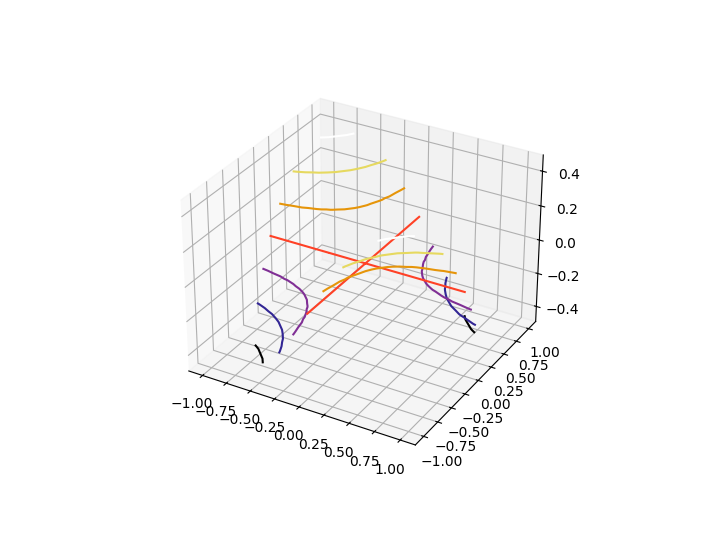
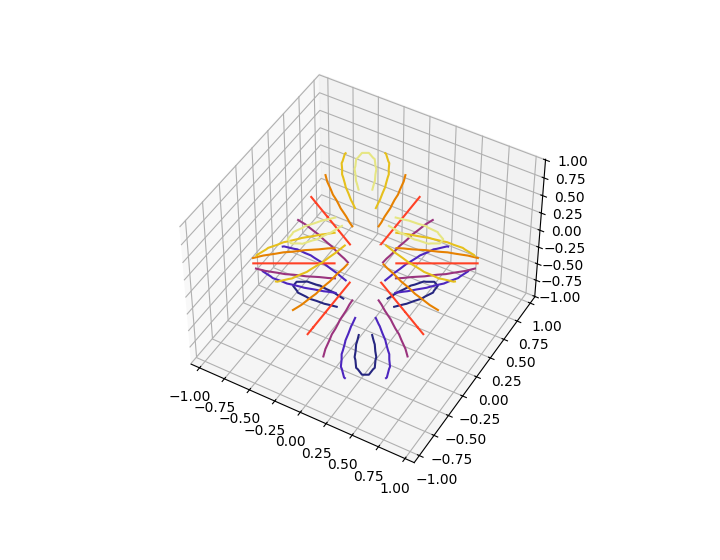
feat: Implement Delaunay triangulation and update contour line width to match Matplotlib defaults

Changed region(s): [[0.2444, 0.1214, 0.825, 0.8804]]

diff --git a/test/parity/mplot3d_tricontour3d/plot.go b/test/parity/mplot3d_tricontour3d/plot.go
@@ -16,37 +16,47 @@ const (
 	DPI    = 100
 )
 
-// fanMesh builds the same polar fan point cloud used by mplot3d_trisurf3d so the
-// auto-Delaunay triangulation matches matplotlib's for an unstructured grid.
-func fanMesh() (x, y, z []float64) {
+// tricontourMesh mirrors Matplotlib's mplot3d/tricontour3d.py gallery example.
+func tricontourMesh() (core.Triangulation, []float64) {
 	const (
-		nRadii  = 8
-		nAngles = 36
+		nAngles   = 48
+		nRadii    = 8
+		minRadius = 0.25
 	)
 	radii := make([]float64, nRadii)
 	for i := range radii {
-		radii[i] = 0.125 + (float64(i)/float64(nRadii-1))*(1.0-0.125)
-	}
-	angles := make([]float64, nAngles)
-	for i := range angles {
-		angles[i] = 2 * math.Pi * float64(i) / float64(nAngles)
+		radii[i] = minRadius + (float64(i)/float64(nRadii-1))*(0.95-minRadius)
 	}
 
-	x = make([]float64, 1+nRadii*nAngles)
-	y = make([]float64, len(x))
-	z = make([]float64, len(x))
-	index := 1
-	for _, angle := range angles {
-		for _, radius := range radii {
+	x := make([]float64, nAngles*nRadii)
+	y := make([]float64, len(x))
+	z := make([]float64, len(x))
+	index := 0
+	for angleIdx := range nAngles {
+		baseAngle := 2 * math.Pi * float64(angleIdx) / float64(nAngles)
+		for radiusIdx, radius := range radii {
+			angle := baseAngle
+			if radiusIdx%2 == 1 {
+				angle += math.Pi / nAngles
+			}
 			x[index] = radius * math.Cos(angle)
 			y[index] = radius * math.Sin(angle)
+			z[index] = math.Cos(radius) * math.Cos(3*angle)
 			index++
 		}
 	}
-	for i := range x {
-		z[i] = math.Sin(-(x[i] * y[i]))
+
+	tri, err := core.NewTriangulation(x, y)
+	if err != nil {
+		panic(err)
 	}
-	return x, y, z
+	tri.Mask = make([]bool, len(tri.Triangles))
+	for i, triangle := range tri.Triangles {
+		cx := (tri.X[triangle[0]] + tri.X[triangle[1]] + tri.X[triangle[2]]) / 3
+		cy := (tri.Y[triangle[0]] + tri.Y[triangle[1]] + tri.Y[triangle[2]]) / 3
+		tri.Mask[i] = math.Hypot(cx, cy) < minRadius
+	}
+	return tri, z
 }
 
 // Plot builds the showcase figure (backend-agnostic).
@@ -60,16 +70,12 @@ func Plot() *core.Figure {
 		panic(err)
 	}
 
-	x, y, z := fanMesh()
+	tri, z := tricontourMesh()
 	cmap := "CMRmap"
-	vmin := -0.45
-	vmax := 0.45
-	ax.TriContour(core.Triangulation{X: x, Y: y}, z, core.PlotOptions{
+	ax.TriContour(tri, z, core.PlotOptions{
 		Colormap: &cmap,
-		Levels:   []float64{-0.45, -0.3, -0.15, 0, 0.15, 0.3, 0.45},
-		VMin:     &vmin,
-		VMax:     &vmax,
 	})
+	ax.SetView(45, -60)
 	return fig
 }
 

diff --git a/test/matplotlib_ref/plots/mplot3d_tricontour3d.py b/test/matplotlib_ref/plots/mplot3d_tricontour3d.py
@@ -20,26 +20,27 @@ def mplot3d_tricontour3d(out_dir):
     fig = make_fig_px(720, 560)
     ax = fig.add_axes(go_rect(0.12, 0.16, 0.88, 0.88), projection="3d")
 
-    # Same polar fan point cloud as mplot3d_trisurf3d; rely on auto-Delaunay so
-    # the triangulation matches the Go core.Triangulation auto-mesh.
+    n_angles = 48
     n_radii = 8
-    n_angles = 36
-    radii = np.linspace(0.125, 1.0, n_radii)
-    angles = np.linspace(0, 2 * math.pi, n_angles, endpoint=False)[:, np.newaxis]
+    min_radius = 0.25
 
-    x = np.append(0, (radii * np.cos(angles)).flatten())
-    y = np.append(0, (radii * np.sin(angles)).flatten())
-    z = np.sin(-(x * y))
+    radii = np.linspace(min_radius, 0.95, n_radii)
+    angles = np.linspace(0, 2 * math.pi, n_angles, endpoint=False)
+    angles = np.repeat(angles[..., np.newaxis], n_radii, axis=1)
+    angles[:, 1::2] += math.pi / n_angles
 
-    ax.tricontour(
-        x,
-        y,
-        z,
-        levels=[-0.45, -0.3, -0.15, 0, 0.15, 0.3, 0.45],
-        cmap="CMRmap",
-        vmin=-0.45,
-        vmax=0.45,
+    x = (radii * np.cos(angles)).flatten()
+    y = (radii * np.sin(angles)).flatten()
+    z = (np.cos(radii) * np.cos(3 * angles)).flatten()
+
+    triang = mtri.Triangulation(x, y)
+    triang.set_mask(
+        np.hypot(x[triang.triangles].mean(axis=1), y[triang.triangles].mean(axis=1))
+        < min_radius
     )
+
+    ax.tricontour(triang, z, cmap="CMRmap")
+    ax.view_init(elev=45.0)
 
     save(fig, out_dir, "mplot3d_tricontour3d")
 

diff --git a/test/parity/mplot3d_tricontour3d/plot.py b/test/parity/mplot3d_tricontour3d/plot.py
@@ -20,26 +20,27 @@ def mplot3d_tricontour3d(out_dir):
     fig = make_fig_px(720, 560)
     ax = fig.add_axes(go_rect(0.12, 0.16, 0.88, 0.88), projection="3d")
 
-    # Same polar fan point cloud as mplot3d_trisurf3d; rely on auto-Delaunay so
-    # the triangulation matches the Go core.Triangulation auto-mesh.
+    n_angles = 48
     n_radii = 8
-    n_angles = 36
-    radii = np.linspace(0.125, 1.0, n_radii)
-    angles = np.linspace(0, 2 * math.pi, n_angles, endpoint=False)[:, np.newaxis]
+    min_radius = 0.25
 
-    x = np.append(0, (radii * np.cos(angles)).flatten())
-    y = np.append(0, (radii * np.sin(angles)).flatten())
-    z = np.sin(-(x * y))
+    radii = np.linspace(min_radius, 0.95, n_radii)
+    angles = np.linspace(0, 2 * math.pi, n_angles, endpoint=False)
+    angles = np.repeat(angles[..., np.newaxis], n_radii, axis=1)
+    angles[:, 1::2] += math.pi / n_angles
 
-    ax.tricontour(
-        x,
-        y,
-        z,
-        levels=[-0.45, -0.3, -0.15, 0, 0.15, 0.3, 0.45],
-        cmap="CMRmap",
-        vmin=-0.45,
-        vmax=0.45,
+    x = (radii * np.cos(angles)).flatten()
+    y = (radii * np.sin(angles)).flatten()
+    z = (np.cos(radii) * np.cos(3 * angles)).flatten()
+
+    triang = mtri.Triangulation(x, y)
+    triang.set_mask(
+        np.hypot(x[triang.triangles].mean(axis=1), y[triang.triangles].mean(axis=1))
+        < min_radius
     )
+
+    ax.tricontour(triang, z, cmap="CMRmap")
+    ax.view_init(elev=45.0)
 
     save(fig, out_dir, "mplot3d_tricontour3d")
 

diff --git a/internal/examplecatalog/catalog.go b/internal/examplecatalog/catalog.go
@@ -201,7 +201,7 @@ var cases = []Case{
 	{ID: "mplot3d_quiver3d", Topic: "mplot3d", Title: "3D Quiver", FixtureOnly: true, Width: 720, Height: 560, MinPSNR: 30.0, MaxMeanAbs: 10.0, MaxRMSE: 3.7},
 	{ID: "mplot3d_contour3d", Topic: "mplot3d", Title: "3D Contour", FixtureOnly: true, Width: 720, Height: 560, MinPSNR: 30.0, MaxMeanAbs: 12.0, MaxRMSE: 3.5},
 	{ID: "mplot3d_contourf3d", Topic: "mplot3d", Title: "3D Filled Contour", FixtureOnly: true, Width: 720, Height: 560, MinPSNR: 30.0, MaxMeanAbs: 12.0, MaxRMSE: 1.2},
-	{ID: "mplot3d_tricontour3d", Topic: "mplot3d", Title: "3D Triangulated Contour", FixtureOnly: true, Width: 720, Height: 560, MinPSNR: 30.0, MaxMeanAbs: 12.0, MaxRMSE: 5.0},
+	{ID: "mplot3d_tricontour3d", Topic: "mplot3d", Title: "3D Triangulated Contour", FixtureOnly: true, Width: 720, Height: 560, MinPSNR: 30.0, MaxMeanAbs: 12.0, MaxRMSE: 2.8},
 	{ID: "mplot3d_tricontourf3d", Topic: "mplot3d", Title: "3D Triangulated Filled Contour", FixtureOnly: true, Width: 720, Height: 560, MinPSNR: 30.0, MaxMeanAbs: 12.0, MaxRMSE: 2.0},
 	{ID: "mplot3d_bar2d_zdir", Topic: "mplot3d", Title: "3D Planar 2D Bars", FixtureOnly: true, Width: 720, Height: 560, MinPSNR: 30.0, MaxMeanAbs: 8.0, MaxRMSE: 1.2},
 	{ID: "mplot3d_text3d", Topic: "mplot3d", Title: "3D Text Labels", FixtureOnly: true, Width: 720, Height: 560, MinPSNR: 30.0, MaxMeanAbs: 10.0, MaxRMSE: 2.0},

diff --git a/core/axes3d_contour_test.go b/core/axes3d_contour_test.go
@@ -54,6 +54,38 @@ func TestAxes3DTriContourAndTriContourfCreateCollections(t *testing.T) {
 	}
 }
 
+func TestAxes3DContourDefaultLineWidthMatchesMatplotlib(t *testing.T) {
+	fig := NewFigure(640, 480)
+	ax, err := fig.AddAxes3D(unitRect())
+	if err != nil {
+		t.Fatalf("AddAxes3D: %v", err)
+	}
+
+	x := []float64{0, 1}
+	y := []float64{0, 1}
+	z := [][]float64{{0, 1}, {1, 2}}
+	contour := ax.Contour(x, y, z, PlotOptions{Levels: []float64{0.5}})
+	if contour == nil {
+		t.Fatal("Contour returned nil")
+	}
+	if got, want := contour.LineWidth, 2.0; got != want {
+		t.Fatalf("Contour default line width = %v, want Matplotlib 1.5 pt at 100 DPI rounded to %v px", got, want)
+	}
+
+	tri := Triangulation{
+		X:         []float64{0, 1, 0},
+		Y:         []float64{0, 0, 1},
+		Triangles: [][3]int{{0, 1, 2}},
+	}
+	triContour := ax.TriContour(tri, []float64{0, 1, 1}, PlotOptions{Levels: []float64{0.5}})
+	if triContour == nil {
+		t.Fatal("TriContour returned nil")
+	}
+	if got, want := triContour.LineWidth, 2.0; got != want {
+		t.Fatalf("TriContour default line width = %v, want Matplotlib 1.5 pt at 100 DPI rounded to %v px", got, want)
+	}
+}
+
 func TestAxes3DContourfDefaultsToOpaqueFacesLikeMatplotlib(t *testing.T) {
 	fig := NewFigure(640, 480)
 	ax, err := fig.AddAxes3D(unitRect())

diff --git a/core/tricontour_test.go b/core/tricontour_test.go
@@ -32,6 +32,33 @@ func TestTriContourfSkipsMaskedTriangles(t *testing.T) {
 	}
 }
 
+func TestNewTriangulationBuildsDelaunayMesh(t *testing.T) {
+	tri, err := NewTriangulation(
+		[]float64{0, 1, 0, 1},
+		[]float64{0, 0, 1, 1},
+	)
+	if err != nil {
+		t.Fatalf("NewTriangulation: %v", err)
+	}
+	if len(tri.Triangles) != 2 {
+		t.Fatalf("triangles = %v, want two triangles covering the square", tri.Triangles)
+	}
+	if len(tri.X) != 4 || len(tri.Y) != 4 {
+		t.Fatalf("coordinate lengths = %d/%d, want copied input coordinates", len(tri.X), len(tri.Y))
+	}
+
+	tri.X[0] = 99
+	originalX := []float64{0, 1, 0, 1}
+	tri, err = NewTriangulation(originalX, []float64{0, 0, 1, 1})
+	if err != nil {
+		t.Fatalf("NewTriangulation after mutation: %v", err)
+	}
+	originalX[0] = 42
+	if tri.X[0] != 0 {
+		t.Fatalf("NewTriangulation retained caller slice: got x[0]=%v, want independent copy", tri.X[0])
+	}
+}
+
 func TestTriangulationArtists(t *testing.T) {
 	fig := NewFigure(640, 480)
 	ax := fig.AddAxes(geom.Rect{

diff --git a/core/triangulation.go b/core/triangulation.go
@@ -17,6 +17,18 @@ type Triangulation struct {
 	Mask      []bool
 }
 
+// NewTriangulation returns a Delaunay triangulation for the supplied points.
+func NewTriangulation(x, y []float64) (Triangulation, error) {
+	tri, ok := autoTriangulate(Triangulation{
+		X: append([]float64(nil), x...),
+		Y: append([]float64(nil), y...),
+	})
+	if !ok {
+		return Triangulation{}, fmt.Errorf("could not triangulate %d point(s)", min(len(x), len(y)))
+	}
+	return tri, nil
+}
+
 // TriPlotOptions configures triplot rendering.
 type TriPlotOptions struct {
 	Color     *render.Color

diff --git a/core/axes3d_contour.go b/core/axes3d_contour.go
@@ -17,7 +17,7 @@ func (a *Axes3D) Contour(x, y []float64, z [][]float64, opts ...PlotOptions) *Li
 	}
 
 	color := a.NextColor()
-	lineWidth := 1.0
+	lineWidth := 2.0
 	alpha := 1.0
 	label := ""
 	colorOverride := false
@@ -119,7 +119,7 @@ func (a *Axes3D) TriContour(tri Triangulation, z []float64, opts ...PlotOptions)
 	}
 
 	color := a.NextColor()
-	lineWidth := 1.0
+	lineWidth := 2.0
 	alpha := 1.0
 	colorOverride := false
 	if opt.Color != nil {

diff --git a/docs/matplotlib-migration-notes.md b/docs/matplotlib-migration-notes.md
@@ -1319,16 +1319,13 @@ golden, and matplotlib reference): `mplot3d_errorbar3d`, `mplot3d_contour3d`,
 sources structurally close and shares identical input data so only rendering
 differences remain. The structured-contour cases reuse the
 `get_test_data(0.25)` dual-Gaussian grid with explicit levels and matched
-`vmin`/`vmax`; the triangulated-contour cases reuse the `mplot3d_trisurf3d`
-polar fan point cloud and rely on auto-Delaunay so the Go `core.Triangulation`
-mesh and matplotlib's qhull mesh agree. All seven join the existing `mplot3d_*`
-family in `optionalVisualGoldenIDs` and use the shared 3D tolerance band
-(`MinPSNR` 30, `MaxMeanAbs` 8-12, `MaxRMSE` 18), except `mplot3d_text3d`
-which now carries a tighter `MaxRMSE` 2 after the 3D frame/tick/label
-projection limits were aligned with Matplotlib.
+`vmin`/`vmax`; `mplot3d_tricontour3d` now mirrors Matplotlib's upstream
+staggered polar grid, masked triangulation, default levels, and 45 degree
+elevation. All seven join the existing `mplot3d_*` family in
+`optionalVisualGoldenIDs` and use per-case tolerances in the catalog.
 
 Measured golden-vs-reference metrics: contour3d RMSE 3.17 / PSNR 52.0,
-contourf3d RMSE 6.06 / PSNR 45.4, tricontour3d RMSE 4.62 / PSNR 52.0,
+contourf3d RMSE 6.06 / PSNR 45.4, tricontour3d RMSE 2.22 / PSNR 50.5,
 tricontourf3d RMSE 13.0 / PSNR 46.5, bar2d_zdir RMSE 1.09 / PSNR 56.8, and
 text3d RMSE 0.66 / PSNR 61.1.
 
